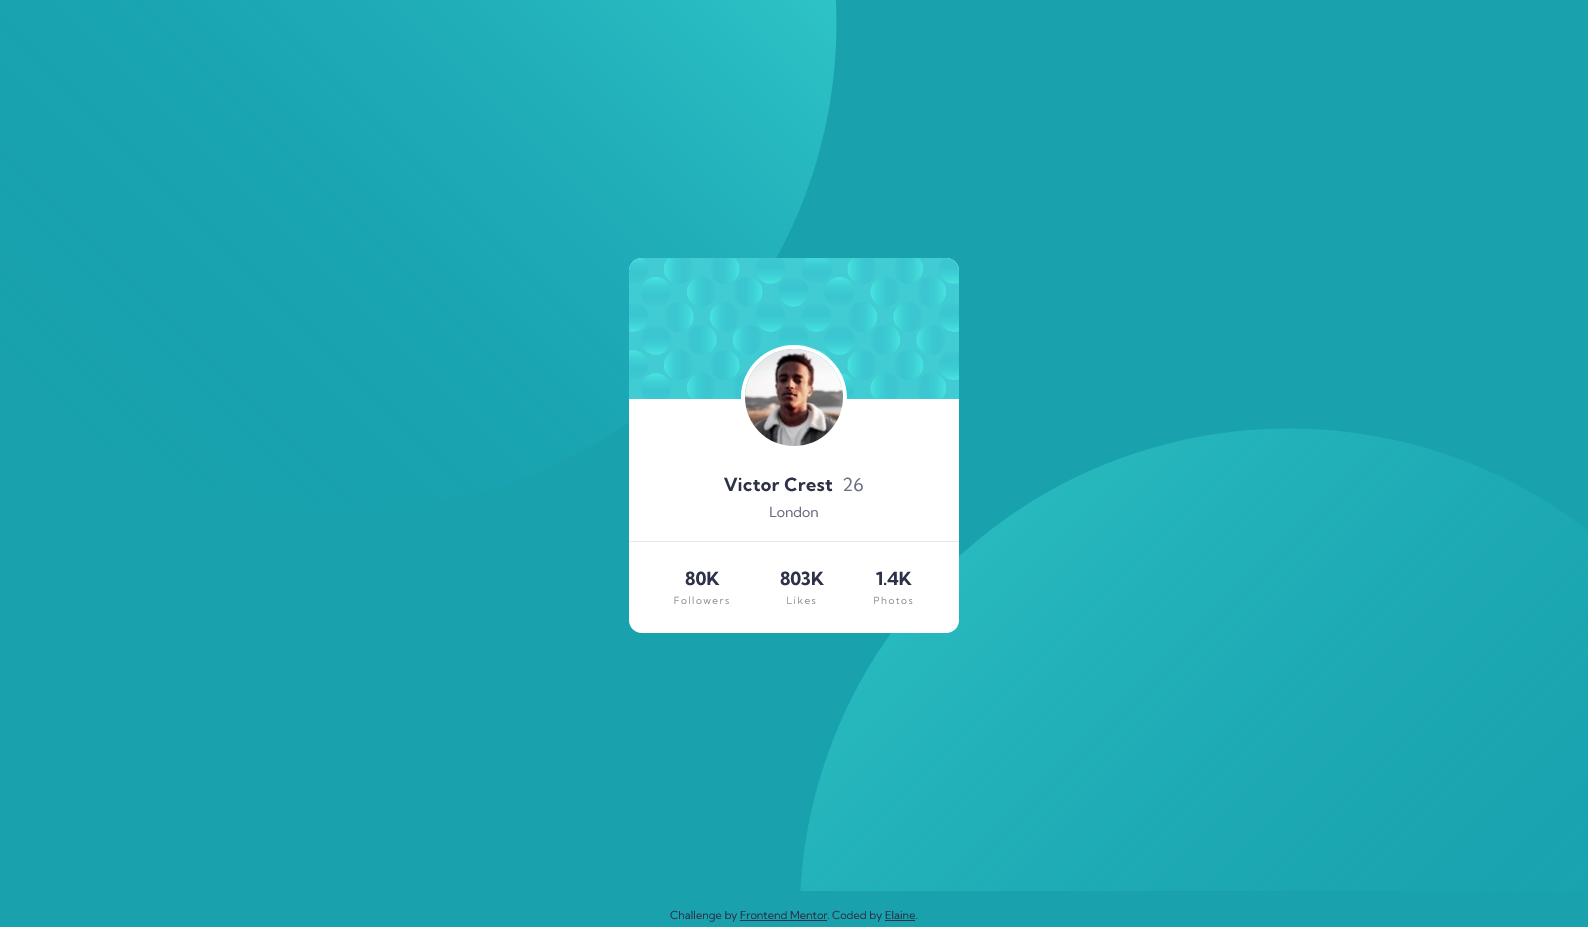
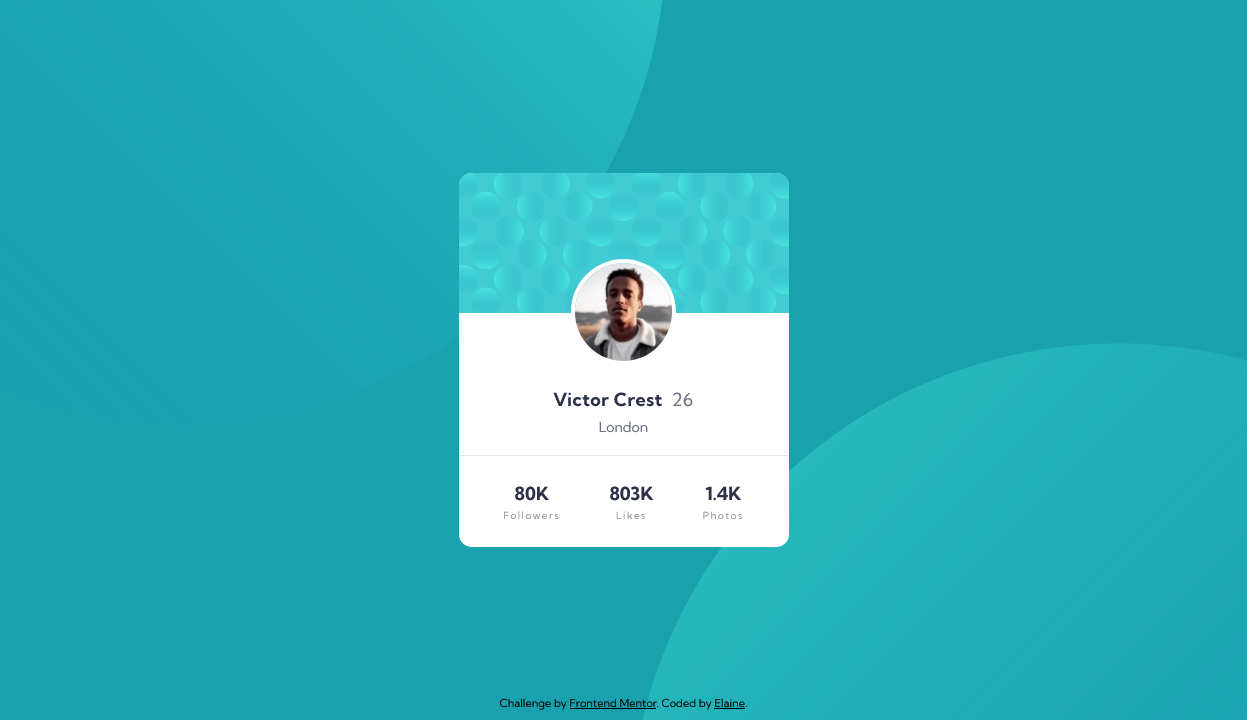
Add profile card challenge

Changed region(s): [[0.3657, 0.2139, 0.6399, 0.7639], [0.3962, 0.9778, 0.6095, 1.0], [0.518, 0.0917, 0.5485, 0.1222]]

diff --git a/profilecard/stylesheet.css b/profilecard/stylesheet.css
@@ -227,7 +227,8 @@ footer {
 }
 
 .attribution {
-  padding-top: 1.5em;
+  position: fixed;
+  bottom: 5px;
   font-size: 11px;
   text-align: center;
   color: black;
